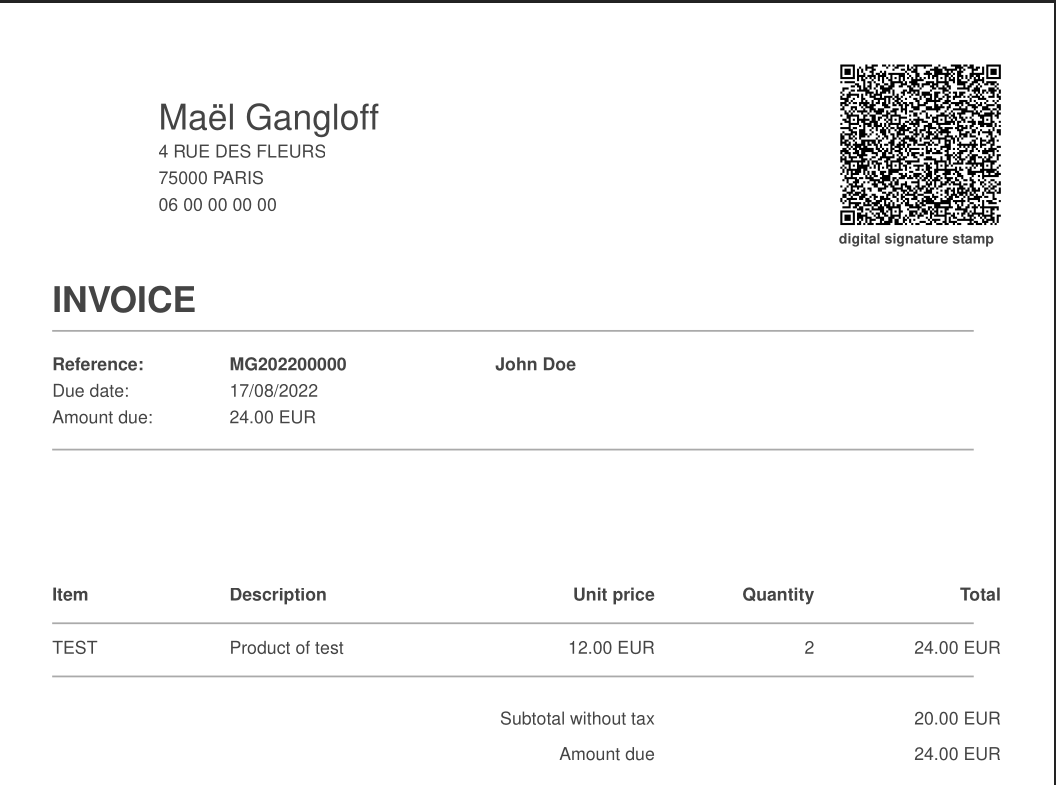
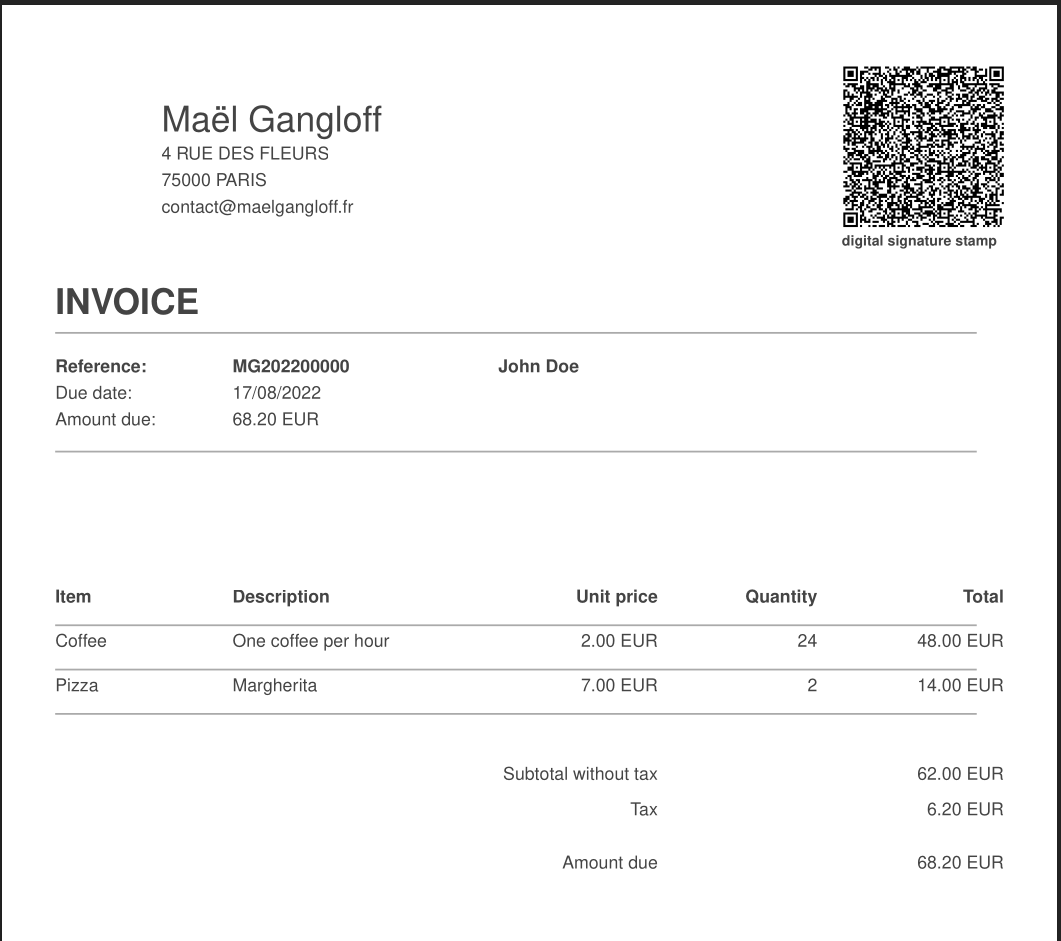
feat: update document style

diff --git a/src/InvoicePDF.ts b/src/InvoicePDF.ts
@@ -1,4 +1,3 @@
-import { WriteStream } from 'fs'
 import PDFKit from 'pdfkit'
 import Invoice from './index'
 import translation from './translation.json'
@@ -7,7 +6,7 @@ async function generateHeader (doc: PDFKit.PDFDocument, invoice: Invoice) {
   const lang = translation[invoice.invoice.language]
   const { seller, logoPath } = invoice.invoice
 
-  if(logoPath) doc.image(logoPath, 0, 40, { width: 80 })
+  if (logoPath) doc.image(logoPath, 0, 40, { width: 80 })
 
   doc.fillColor('#444444')
     .fontSize(20)
@@ -16,7 +15,7 @@ async function generateHeader (doc: PDFKit.PDFDocument, invoice: Invoice) {
     .text(seller.address.street, 90, 80)
     .text(`${seller.address.zip} ${seller.address.city} ${seller.address.state ?? ''}`, 90, 95)
     .text(`${seller.contact}`, 90, 110)
-    .image(await invoice.createQRCode(), 470, 30, { align: 'right', width: 100 })
+    .image(await invoice.createQRCodeBuffer(), 470, 30, { align: 'right', width: 100 })
     .font('Helvetica-Bold')
     .fontSize(8)
     .text(lang.signedInvoice, 470, 130, { align: 'center' })
@@ -63,13 +62,13 @@ function generateCustomerInformation (doc: PDFKit.PDFDocument, invoice: Invoice)
   generateHr(doc, 252)
 }
 
-function generateTableRow(doc: PDFKit.PDFDocument, y: number, c1: string, c2: string, c3: string, c4: string|number, c5: string) {
-	doc.fontSize(10)
-		.text(c1, 30, y)
-		.text(c2, 130, y)
-		.text(c3, 280, y, { width: 90, align: 'right' })
-		.text(c4.toString(), 370, y, { width: 90, align: 'right' })
-		.text(c5, 0, y, { align: 'right' });
+function generateTableRow (doc: PDFKit.PDFDocument, y: number, c1: string, c2: string, c3: string, c4: string|number, c5: string) {
+  doc.fontSize(10)
+    .text(c1, 30, y)
+    .text(c2, 130, y)
+    .text(c3, 280, y, { width: 90, align: 'right' })
+    .text(c4.toString(), 370, y, { width: 90, align: 'right' })
+    .text(c5, 0, y, { align: 'right' })
 }
 
 function generateInvoiceTable (doc: PDFKit.PDFDocument, invoice: Invoice) {
@@ -91,35 +90,36 @@ function generateInvoiceTable (doc: PDFKit.PDFDocument, invoice: Invoice) {
 
   for (i = 0; i < items.length; i++) {
     const item = items[i]
-    const position = invoiceTableTop + (i + 1) * 30
+    const position = invoiceTableTop + (i + 1) * 25
     generateTableRow(
       doc,
       position,
       item.item,
       item.description ?? '',
-      formatCurrency(item.unitPrice * (1 + item.tax), currency),
+      formatCurrency(item.unitPrice, currency),
       item.quantity,
-      formatCurrency(item.quantity * item.unitPrice * (1 + item.tax), currency)
+      formatCurrency(item.quantity * item.unitPrice, currency)
     )
 
     generateHr(doc, position + 20)
   }
 
   generateTableRow(doc, invoiceTableTop + (i + 1) * 30 + 10, '', '', lang.subtotalWithoutTax, '', formatCurrency(subtotalWithoutTax, currency))
-  generateTableRow(doc, invoiceTableTop + (i + 2) * 30, '', '', lang.amountDue, '', formatCurrency(amountDue, currency))
+  generateTableRow(doc, invoiceTableTop + (i + 2) * 30, '', '', lang.tax, '', formatCurrency(amountDue - subtotalWithoutTax, currency))
+  generateTableRow(doc, invoiceTableTop + (i + 3) * 30, '', '', lang.amountDue, '', formatCurrency(amountDue, currency))
 }
 
 function generateFooter (doc: PDFKit.PDFDocument, invoice: Invoice) {
-  const {seller} = invoice.invoice
+  const { seller } = invoice.invoice
   doc.fontSize(10).text(`${seller.name} - ${seller.identifier}${seller.vatNumber ? ' - ' + seller.vatNumber : ''}`, 50, 800, { align: 'left', width: 500 })
 }
 
-export async function invoicePDF (invoice: Invoice, stream: WriteStream) {
+export async function invoicePDF (invoice: Invoice): Promise<PDFKit.PDFDocument> {
   const doc = new PDFKit({ margin: 30, size: 'A4' })
   await generateHeader(doc, invoice)
   generateCustomerInformation(doc, invoice)
   generateInvoiceTable(doc, invoice)
   generateFooter(doc, invoice)
   doc.end()
-  doc.pipe(stream)
+  return doc
 }

diff --git a/src/index.ts b/src/index.ts
@@ -2,9 +2,10 @@ import { Company, Person } from './Entity'
 import { Line } from './Line'
 import jwt from 'jsonwebtoken'
 import QRCode from 'qrcode'
-import fs from 'fs'
 import { invoicePDF } from './InvoicePDF'
 import translation from './translation.json'
+import { InvoiceSignedPayload } from './InvoiceSignedPayload'
+import {createWriteStream, readFileSync} from "fs";
 
 export default class Invoice {
   public readonly subtotalWithoutTax: number = 0
@@ -28,9 +29,13 @@ export default class Invoice {
     }
   }
 
+  public static signJwt (signedPayload: InvoiceSignedPayload, privateKey: string): string {
+    return jwt.sign(signedPayload, privateKey, { algorithm: 'ES256' })
+  }
+
   public createJwt (): string {
     const { seller, client, lines, currency, reference, isPaid, date, dueDate } = this.invoice
-    return jwt.sign({
+    return Invoice.signJwt({
       iss: `${seller.name} (${seller.identifier})`,
       sub: client.name,
       iat: Math.floor(date.getTime() / 1e3),
@@ -41,16 +46,14 @@ export default class Invoice {
       lines: lines.length,
       jti: reference,
       isPaid
-    }, this.privateKey, {
-      algorithm: 'ES256'
-    })
+    }, this.privateKey)
   }
 
-  public async createQRCode (): Promise<Buffer> {
+  public async createQRCodeBuffer (): Promise<Buffer> {
     return QRCode.toBuffer(this.createJwt())
   }
 
-  public async generatePDF () {
-    invoicePDF(this, fs.createWriteStream('doc.pdf'))
+  public async generatePDF (): Promise<PDFKit.PDFDocument> {
+    return invoicePDF(this)
   }
 }

diff --git a/types/index.d.ts b/types/index.d.ts
@@ -1,7 +1,9 @@
 /// <reference types="node" />
+/// <reference types="pdfkit" />
 import { Company, Person } from './Entity';
 import { Line } from './Line';
 import translation from './translation.json';
+import { InvoiceSignedPayload } from './InvoiceSignedPayload';
 export default class Invoice {
     invoice: {
         logoPath?: string;
@@ -30,7 +32,8 @@ export default class Invoice {
         language: keyof typeof translation;
         isPaid: boolean;
     }, privateKey: string);
+    static signJwt(signedPayload: InvoiceSignedPayload, privateKey: string): string;
     createJwt(): string;
-    createQRCode(): Promise<Buffer>;
-    generatePDF(): Promise<void>;
+    createQRCodeBuffer(): Promise<Buffer>;
+    generatePDF(): Promise<PDFKit.PDFDocument>;
 }

diff --git a/types/InvoicePDF.d.ts b/types/InvoicePDF.d.ts
@@ -1,4 +1,3 @@
-/// <reference types="node" />
-import { WriteStream } from 'fs';
+/// <reference types="pdfkit" />
 import Invoice from './index';
-export declare function invoicePDF(invoice: Invoice, stream: WriteStream): Promise<void>;
+export declare function invoicePDF(invoice: Invoice): Promise<PDFKit.PDFDocument>;

diff --git a/src/InvoiceSignedPayload.ts b/src/InvoiceSignedPayload.ts
@@ -1,0 +1,12 @@
+export interface InvoiceSignedPayload {
+    iss: string
+    sub: string
+    iat: number
+    dueDate: number
+    amount: number
+    currency: string
+    quantity: number
+    lines: number
+    jti: string
+    isPaid: boolean
+}

diff --git a/README.md b/README.md
@@ -53,16 +53,24 @@ const invoice = new Invoice({
   dueDate: new Date(new Date().getTime() + 24 * 60 * 60 * 1e3 ),
   lines: [
     {
-      item: 'TEST',
+      item: 'Coffee',
+      quantity: 24,
+      unitPrice: 2,
+      tax: 0.1,
+      description: 'One coffee per hour'
+    },
+    {
+      item: 'Pizza',
       quantity: 2,
-      unitPrice: 10,
-      tax: 0.2,
-      description: 'Product of test'
+      unitPrice: 7,
+      tax: 0.1,
+      description: 'Margherita'
     }
   ],
   currency: 'EUR',
-  language: 'fr_FR',
+  language: 'en_US',
   isPaid: false
 }, privateKey)
+
 
 ```
